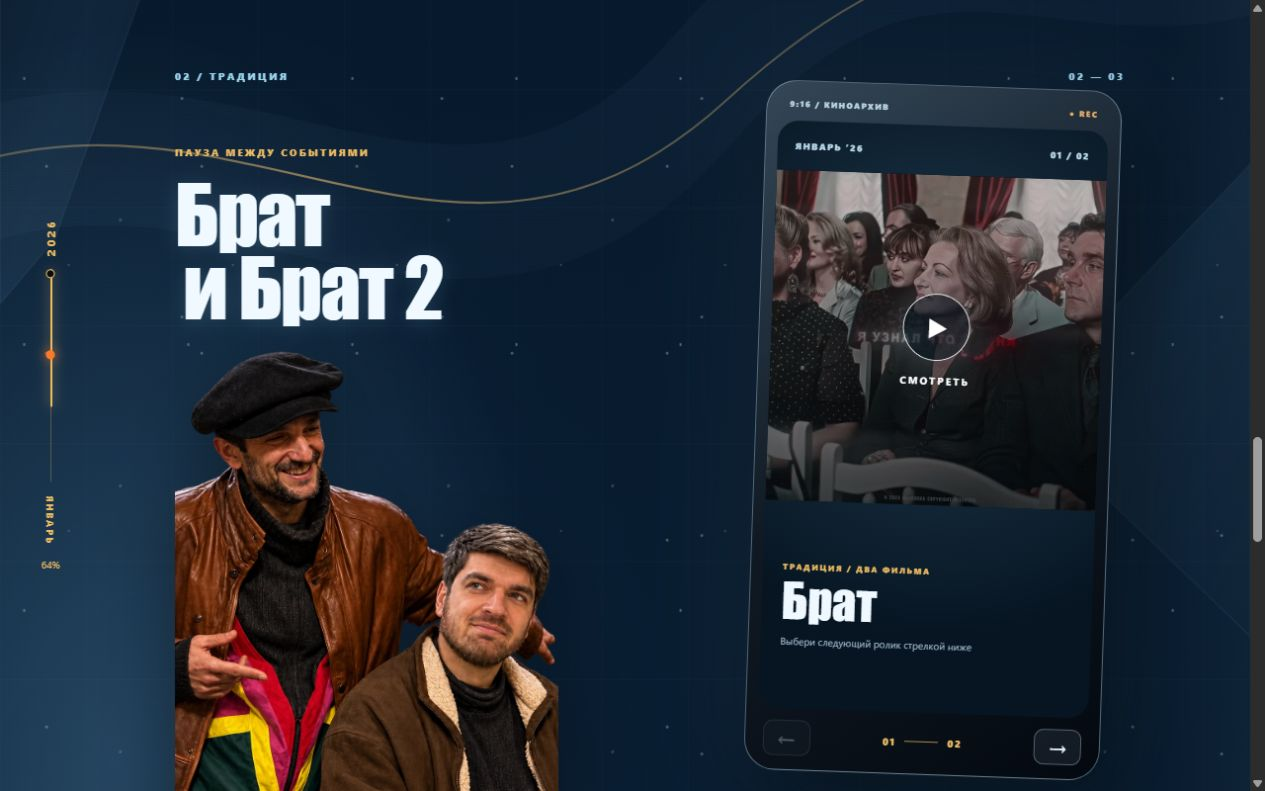
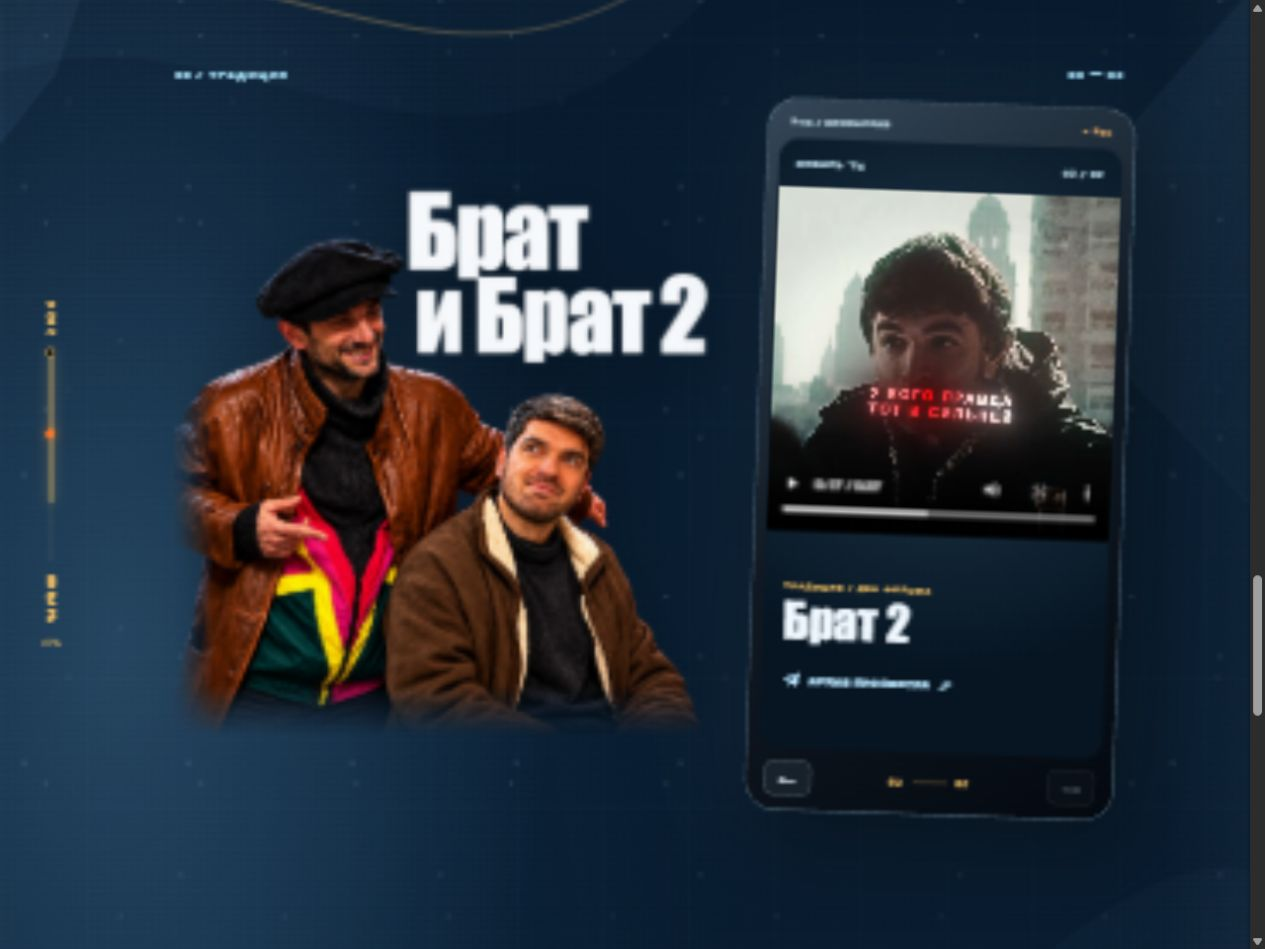
Refine January Brothers scene and add Telegram archives

diff --git a/src/chapters/january/chapter.module.css b/src/chapters/january/chapter.module.css
@@ -32,18 +32,12 @@
 .sceneNext { display: inline-flex; align-items: center; gap: 30px; margin-top: 38px; color: var(--gold); text-decoration: none; font-size: 10px; font-weight: 900; letter-spacing: .16em; }
 .sceneNext span { font-size: 28px; font-weight: 400; }
 .social { isolation: isolate; }
-.socialLayout { min-height: 900px; display: grid; grid-template-columns: minmax(0,1.15fr) minmax(300px,.85fr); gap: 5%; align-items: center; }
-.socialArt { position: relative; min-width: 0; height: 870px; padding-top: 42px; }
-.socialArt .tag { position: relative; z-index: 3; }
-.socialArt h3 { position: relative; z-index: 3; display: flex; flex-direction: column; gap: 3px; margin: 20px 0 0; font-size: clamp(70px,6.3vw,102px); line-height: .88; white-space: nowrap; }
-.socialArt h3 span:last-child { margin-left: .1em; }
-.socialArt img { position: absolute; z-index: 2; left: 0; bottom: 0; display: block; width: auto; max-width: 100%; height: 690px; object-fit: contain; object-position: left bottom; filter: drop-shadow(0 25px 35px rgba(0,0,0,.35)); }
-.socialSide { display: flex; flex-direction: column; align-items: center; gap: 30px; min-width: 0; }
-.socialNotes { width: min(100%,350px); }
-.socialNotes p { margin: 0; font-size: 14px; }
-.socialNotes .source { margin-top: 16px; }
-.socialNotes .sceneNext { margin-top: 20px; }
-.phoneShell { position: relative; width: 100%; max-width: 360px; padding: 12px; border: 1px solid rgba(187,222,246,.42); border-radius: 31px; background: linear-gradient(145deg,#344758,#101923 50%,#040910); box-shadow: 20px 30px 80px rgba(0,0,0,.5),0 0 100px rgba(156,212,237,.09); transform: rotate(2deg); }
+.socialLayout { min-height: 760px; display: grid; grid-template-columns: minmax(0,1.2fr) minmax(340px,.8fr); gap: 3%; align-items: center; }
+.socialArt { position: relative; width: 100%; max-width: 620px; aspect-ratio: 1; min-width: 0; }
+.socialArt img { display: block; width: 100%; height: 100%; object-fit: contain; filter: drop-shadow(0 25px 35px rgba(0,0,0,.3)); -webkit-mask-image: linear-gradient(90deg,transparent 0%,#000 7%,#000 100%),linear-gradient(0deg,transparent 0%,#000 9%,#000 100%); mask-image: linear-gradient(90deg,transparent 0%,#000 7%,#000 100%),linear-gradient(0deg,transparent 0%,#000 9%,#000 100%); -webkit-mask-composite: source-in; mask-composite: intersect; }
+.visuallyHidden { position: absolute !important; width: 1px; height: 1px; padding: 0; margin: -1px; overflow: hidden; clip: rect(0,0,0,0); white-space: nowrap; border: 0; }
+.socialSide { display: flex; align-items: center; justify-content: center; min-width: 0; }
+.phoneShell { position: relative; width: 100%; max-width: 410px; padding: 12px; border: 1px solid rgba(187,222,246,.42); border-radius: 31px; background: linear-gradient(145deg,#344758,#101923 50%,#040910); box-shadow: 20px 30px 80px rgba(0,0,0,.5),0 0 100px rgba(156,212,237,.09); transform: rotate(2deg); }
 .phoneTop { display: flex; justify-content: space-between; padding: 5px 11px 12px; color: #bbd6e6; font-size: 8px; font-weight: 900; letter-spacing: .18em; }
 .phoneTop span { color: #e9ad69; }
 .phoneScreen { display: flex; flex-direction: column; overflow: hidden; aspect-ratio: 9/16; border-radius: 21px; background: radial-gradient(circle at 50% 35%,#1f3b50,#071522 73%); }
@@ -58,7 +52,10 @@
 .phoneScreenMeta { display: flex; flex: 1; flex-direction: column; justify-content: center; padding: 15px 20px; }
 .phoneScreenMeta span { color: var(--gold); font-size: 8px; font-weight: 900; letter-spacing: .2em; }
 .phoneScreenMeta strong { margin-top: 8px; color: #f0f8ff; font: 400 48px/.9 var(--font-display); }
-.phoneScreenMeta small { margin-top: 12px; color: #9ab4c4; font-size: 10px; }
+.phoneArchive { display: inline-flex; align-items: center; gap: 9px; width: fit-content; margin-top: 19px; padding: 9px 0; color: #b8e6ff; text-decoration: none; font-size: 10px; font-weight: 900; letter-spacing: .12em; }
+.phoneArchive svg { width: 19px; height: 19px; fill: currentColor; }
+.phoneArchive span { color: #b8e6ff; font-size: 16px; }
+.phoneArchive:hover { color: #fff; }
 .phoneControls { display: flex; align-items: center; justify-content: space-between; padding: 12px 6px 2px; }
 .phoneControls button { width: 48px; height: 36px; border: 1px solid rgba(198,228,246,.35); border-radius: 10px; background: rgba(173,222,248,.08); color: #e8f7ff; cursor: pointer; font-size: 23px; }
 .phoneControls button:disabled { opacity: .32; cursor: default; }
@@ -90,5 +87,5 @@
 :global(.media-stop) { left: 10px; } :global(.media-original) { right: 10px; }
 @media (max-width: 1100px) { .scene { padding-left: 12%; } .cinema { padding: 0; } .cinemaSticky { padding-left: 12%; } .cinemaLayout { grid-template-columns: minmax(0,1.1fr) minmax(260px,.9fr); gap: 22px; } .sceneCopy { grid-template-columns: minmax(0,1.1fr) minmax(260px,.9fr); } .socialLayout { gap: 4%; grid-template-columns: 1fr 310px; } .splitFrame { width: 85%; } }
 @media (max-width: 700px) { .scene { padding: 35px 7% 80px; min-height: auto; } .cinema { height: 185svh; padding: 0; } .cinemaSticky { justify-content: center; height: 100svh; min-height: 670px; padding: 24px 7% 32px; } .scene::after { width: 25px; } .sceneTop { font-size: 9px; } .cinemaLayout { grid-template-columns: 1fr; margin-top: 20px; gap: 13px; } .faceStage { min-height: 205px; } .faceCanvas { inset: -7px 0 0; } .faceStage figcaption { left: 0; right: 0; bottom: -8px; font-size: 6px; } .sceneCopy { grid-column: auto; grid-template-columns: 1fr; gap: 0; padding-top: 0; } .sceneSummary { padding-top: 0; } .scene h3 { margin: 10px 0; font-size: clamp(48px,12vw,70px); } .scene p { font-size: 13px; line-height: 1.45; } .source { margin-top: 14px; font-size: 8px; } .sceneNext { margin-top: 12px; } .socialLayout { display: flex; flex-direction: column; align-items: stretch; gap: 35px; min-height: 0; } .socialCopy { padding: 100px 0 0; } .socialCopy h3 { font-size: clamp(70px,18vw,110px); } .quoteMark { top: -25px; } .phoneShell { width: min(75%,320px); margin: 0 auto 40px; } .splitLayout { grid-template-columns: 1fr; padding-top: 45px; gap: 30px; } .splitNumber { font-size: 160px; } .splitFrame { grid-column: auto; width: 100%; margin: 0; } .end { padding: 90px 20px; } :global(.media-empty-label), :global(.media-empty-foot) { font-size: 7px; } .streamPosterTop,.streamPosterBottom { left: 14px; right: 14px; font-size: 6px; letter-spacing: .1em; } .streamPosterTop { top: 12px; } .streamPosterBottom { bottom: 12px; } }
-@media (max-width: 1100px) { .socialArt { height: 810px; } .socialArt img { height: 625px; } .socialArt h3 { font-size: clamp(66px,7vw,90px); } }
-@media (max-width: 700px) { .socialLayout { gap: 10px; } .socialArt { width: 100%; height: 610px; padding-top: 28px; } .socialArt h3 { margin-top: 14px; font-size: clamp(49px,14vw,70px); } .socialArt img { height: 500px; } .socialSide { width: 100%; gap: 28px; } .phoneShell { width: min(90%,350px); margin: 0 auto; transform: rotate(1deg); } .socialNotes { width: 100%; } }
+@media (max-width: 1100px) { .socialLayout { grid-template-columns: minmax(0,1fr) minmax(330px,400px); gap: 3%; } }
+@media (max-width: 700px) { .socialLayout { gap: 10px; } .socialArt { width: 100%; height: auto; padding: 0; } .socialSide { width: 100%; } .phoneShell { width: min(96%,410px); margin: 0 auto; transform: rotate(1deg); } }

diff --git a/src/chapters/january/January.tsx b/src/chapters/january/January.tsx
@@ -73,17 +73,11 @@ export function January() {
       <div className={styles.sceneTop}><span>{tradition.eyebrow}</span><span>02 — 03</span></div>
       <div className={styles.socialLayout}>
         <div className={styles.socialArt}>
-          <span className={styles.tag}>ПАУЗА МЕЖДУ СОБЫТИЯМИ</span>
-          <h3 id={`${tradition.id}-title`} aria-label={tradition.title}><span>Брат</span><span>и Брат 2</span></h3>
-          <img src="/assets/visuals/brothers-cutout.webp" alt="Двое друзей в кожаных куртках" loading="lazy" decoding="async" />
+          <h3 id={`${tradition.id}-title`} className={styles.visuallyHidden}>{tradition.title}</h3>
+          <img src="/assets/visuals/brothers-square.webp" alt="Двое друзей в кожаных куртках" loading="lazy" decoding="async" />
         </div>
         <div className={styles.socialSide}>
           <BrotherPhone items={brotherVideos} />
-          <div className={styles.socialNotes}>
-            <p>{tradition.description}</p>
-            <div className={styles.source}>ИЗ ИСХОДНОГО ПЛАНА: «{tradition.sourceTitle}»</div>
-            <a href={`#${game.id}`} className={styles.sceneNext}>ДАЛЬШЕ ПО ЯНВАРЮ <span>↘</span></a>
-          </div>
         </div>
       </div>
     </article>

diff --git a/src/lib/contentValidation.ts b/src/lib/contentValidation.ts
@@ -1,7 +1,7 @@
 import sourceRegistry from '../content/events.2026.json';
 import rawScenes from '../content/january.scenes.json';
 
-export type LocalVideo = { src: string; poster: string; label: string };
+export type LocalVideo = { src: string; poster: string; label: string; telegramUrl: string };
 
 export type Scene = {
   id: string;
@@ -35,7 +35,8 @@ export function validateScenes(input: unknown): Scene[] {
           const video = item as Record<string, unknown>;
           return typeof video.src === 'string' && /^\/assets\/video\/[\w-]+\.mp4$/.test(video.src)
             && typeof video.poster === 'string' && /^\/assets\/video\/[\w-]+\.webp$/.test(video.poster)
-            && typeof video.label === 'string' && video.label.length > 0;
+            && typeof video.label === 'string' && video.label.length > 0
+            && typeof video.telegramUrl === 'string' && /^https:\/\/t\.me\/[\w]+\/\d+\/\d+$/.test(video.telegramUrl);
         })) throw new Error('Invalid local video gallery');
       } else {
         throw new Error('Unsupported media provider');

diff --git a/src/chapters/january/BrotherPhone.tsx b/src/chapters/january/BrotherPhone.tsx
@@ -28,7 +28,10 @@ export function BrotherPhone({ items }: { items: readonly LocalVideo[] }) {
       <div className={styles.phoneScreenMeta}>
         <span>ТРАДИЦИЯ / ДВА ФИЛЬМА</span>
         <strong>{video.label}</strong>
-        <small>Выбери следующий ролик стрелкой ниже</small>
+        <a className={styles.phoneArchive} href={video.telegramUrl} target="_blank" rel="noopener noreferrer" aria-label={`Архив просмотра «${video.label}» в Telegram`}>
+          <svg viewBox="0 0 24 24" aria-hidden="true"><path d="M21.7 3.3 2.6 10.7c-1.1.4-1.1 1-.2 1.3l4.9 1.5 1.9 5.9c.2.6.1.8.7.8.5 0 .7-.2 1-.5l2.7-2.6 5.6 4.1c1 .6 1.7.3 1.9-1l3.2-15c.3-1.5-.6-2.2-1.6-1.9ZM8.5 13.1l10.9-6.7c.5-.3 1-.1.6.3l-9 8.2-.4 3.6-2.1-5.4Z" /></svg>
+          АРХИВ ПРОСМОТРА <span aria-hidden="true">↗</span>
+        </a>
       </div>
     </div>
     <div className={styles.phoneControls}>

diff --git a/src/chapters/january/assetManifest.ts b/src/chapters/january/assetManifest.ts
@@ -38,9 +38,9 @@ export const assetManifest: Asset[] = [
     approved: false, alt: 'RavshanN без бороды',
   },
   {
-    assetId: 'january-brothers-cutout', chapterId: '2026-01', eventId: '2026-01-02', role: 'editorial cutout beside video phone',
-    src: '/assets/visuals/brothers-cutout.webp', kind: 'supplied-artwork', rightsStatus: 'provided-by-user',
-    approved: false, alt: 'Двое друзей в кожаных куртках',
+    assetId: 'january-brothers-square', chapterId: '2026-01', eventId: '2026-01-02', role: 'square editorial artwork beside video phone',
+    src: '/assets/visuals/brothers-square.webp', kind: 'supplied-artwork', rightsStatus: 'provided-by-user',
+    approved: false, alt: 'Брат и Брат 2 — двое друзей в кожаных куртках',
   },
   ...[1, 2].flatMap((part) => ([
     {

diff --git a/tests/core.test.ts b/tests/core.test.ts
@@ -37,4 +37,14 @@ describe('January editorial data', () => {
   it('rejects unsafe local video paths', () => {
     expect(() => validateScenes([{ ...scenes[1], media: { provider: 'local-gallery', items: [{ src: 'https://example.com/clip.mp4', poster: '/assets/video/a.webp', label: 'Брат' }] } }])).toThrow('Invalid local video gallery');
   });
+
+  it('keeps each film paired with its Telegram archive', () => {
+    const gallery = scenes[1].media;
+    expect(gallery?.provider).toBe('local-gallery');
+    if (gallery?.provider !== 'local-gallery') return;
+    expect(gallery.items.map(({ label, telegramUrl }) => [label, telegramUrl])).toEqual([
+      ['Брат', 'https://t.me/stayavods/3/27816'],
+      ['Брат 2', 'https://t.me/stayavods/3/27833'],
+    ]);
+  });
 });

diff --git a/README.md b/README.md
@@ -24,7 +24,7 @@ pnpm build
 - У заголовка января — предоставленный вырезанный кадр RavshanN в снегу, встроенный прямо в зимний фон без рамки.
 - Весь январь расположен на едином абстрактном зимнем полотне: векторные ледяные линии, снежная пыль, холодные блики и редкие золотые акценты. Фотофон не повторяется по секциям.
 - После зимней сцены расположен видеоблок новогоднего стрима. Рядом — два предоставленных портрета: пока секция и её фон закреплены, прокрутка раскрывает лицо без бороды справа налево. Пока запись стрима не готова, на её месте явно обозначенный зимний `PLACEHOLDER`.
-- В сцене «Брат и Брат 2» заголовок расположен над вырезанной фотографией, а в телефоне работают два предоставленных видео: просмотр по кнопке и переключение стрелками. Оптимизированные MP4 и обложки лежат в `public/assets/video/`.
+- В сцене «Брат и Брат 2» слева размещён предоставленный квадратный постер с мягкими краями, справа — увеличенный телефон. Два видео запускаются по кнопке и переключаются стрелками; у каждого ролика есть своя ссылка «Архив просмотра» в Telegram. Оптимизированные MP4 и обложки лежат в `public/assets/video/`.
 - Три январские сцены в форматах 16:9, 9:16 и split. Исходные названия сохранены в реестре, экранные заголовки — редакционные; сами события остаются **непроверенными пунктами**.
 - `PLACEHOLDER` вместо оставшихся отсутствующих медиа. Компонент медиа поддерживает YouTube по клику, без автозвука, со ссылкой на оригинал.
 - Режим показа: `←`/`→` для точек, `PgUp`/`PgDn` для пролога/января, `Esc` для выхода. Клавиши работают только во включённом режиме.

diff --git a/assets/source/README.md b/assets/source/README.md
@@ -3,7 +3,7 @@
 - `ravshann-snow-cutout-original.png` — предоставленная вырезанная фотография для вступления. Оптимизированная версия: `public/assets/visuals/ravshann-snow-cutout.webp`.
 - `ravshann-face-beard-original.png` и `ravshann-face-clean-original.png` — предоставленные портреты для смены лица по прокрутке. Оптимизированные версии находятся в `public/assets/visuals/`.
 - `public/assets/visuals/winter-abstract.svg` — нарисованный в коде единый абстрактный фон января.
-- `brothers-cutout-original.png` — предоставленное изображение для сцены «Брат и Брат 2». Оптимизированная версия: `public/assets/visuals/brothers-cutout.webp`.
+- `brothers-square-original.png` — предоставленный квадратный постер для сцены «Брат и Брат 2». Оптимизированная версия: `public/assets/visuals/brothers-square.webp`; края смягчаются средствами CSS без обрезки файла.
 - `input.mp4` и `Ravsh 2.mp4` предоставлены отдельно и остаются у заказчика. Для сайта подготовлены облегчённые копии `public/assets/video/brat-1.mp4` и `brat-2.mp4` (720×720, 30 кадров/с, звук сохранён), а также кадры обложек. Титры и водяные знаки исходных роликов сохранены.
 
 Постановочные изображения не являются архивными кадрами новогоднего стрима.
